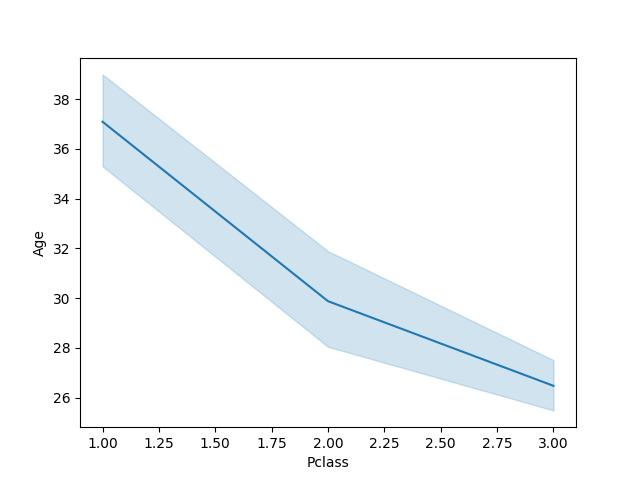
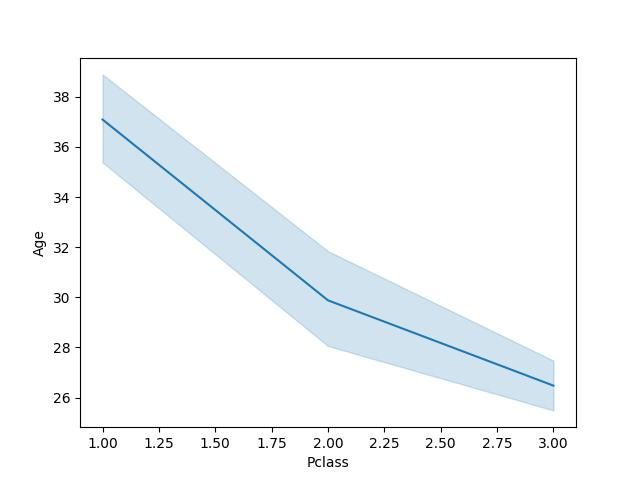
.

diff --git a/modulo4/clase15/01-ejercicio.py b/modulo4/clase15/01-ejercicio.py
@@ -62,3 +62,43 @@ plt.clf()
 sns.violinplot(data=dataframe, x="Sex", y="Age")
 plt.savefig("violinplot.jpg")
 plt.clf()
+
+# KDE
+# Curva suave de distribucion
+
+sns.kdeplot(data=dataframe, x="Age")
+plt.savefig("kdeplot.jpg")
+plt.clf()
+
+# Heatmap
+# visualizar correlaciones
+
+# Primero, agarramos solo las variables numericas.
+corr = dataframe.corr(numeric_only=True)
+
+sns.heatmap(corr, annot=True)
+plt.savefig("heatmap.jpg")
+plt.clf()
+
+
+# Pairplot
+# El mas usado para exploracion rapida.
+# Scatter, histogramas y relaciones
+
+sns.pairplot(dataframe)
+plt.savefig("pairplot.jpg")
+plt.clf()
+
+# Jointplot
+# Relacion y distribucion
+
+sns.jointplot(data=dataframe, x="Age", y="Fare")
+plt.savefig("jointplot.jpg")
+plt.clf()
+
+# Regplot
+# Scatter + Linea de tendencia
+
+sns.regplot(data=dataframe, x="Age", y="Fare")
+plt.savefig("regplot.jpg")
+plt.clf()
